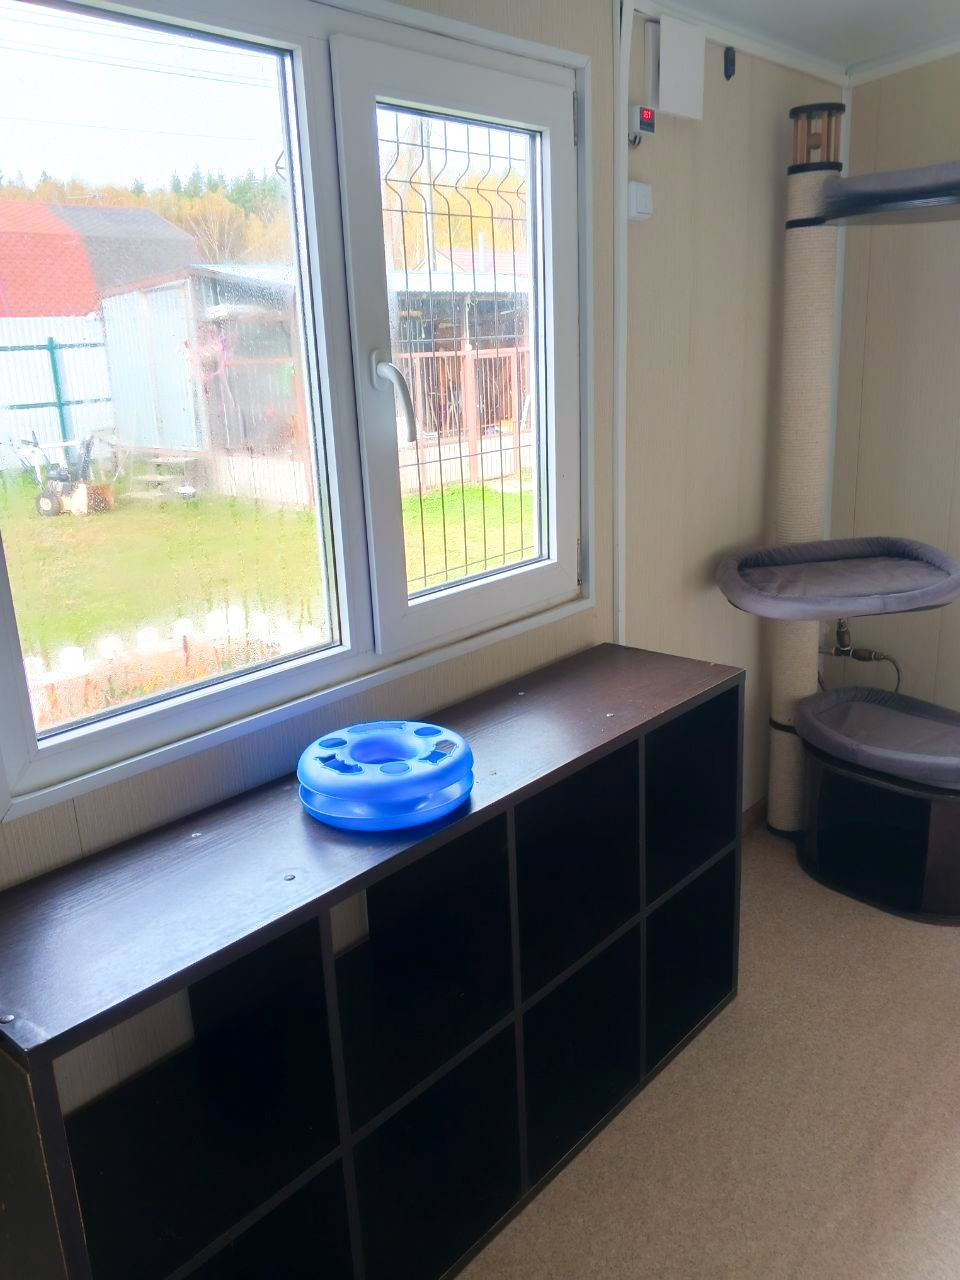
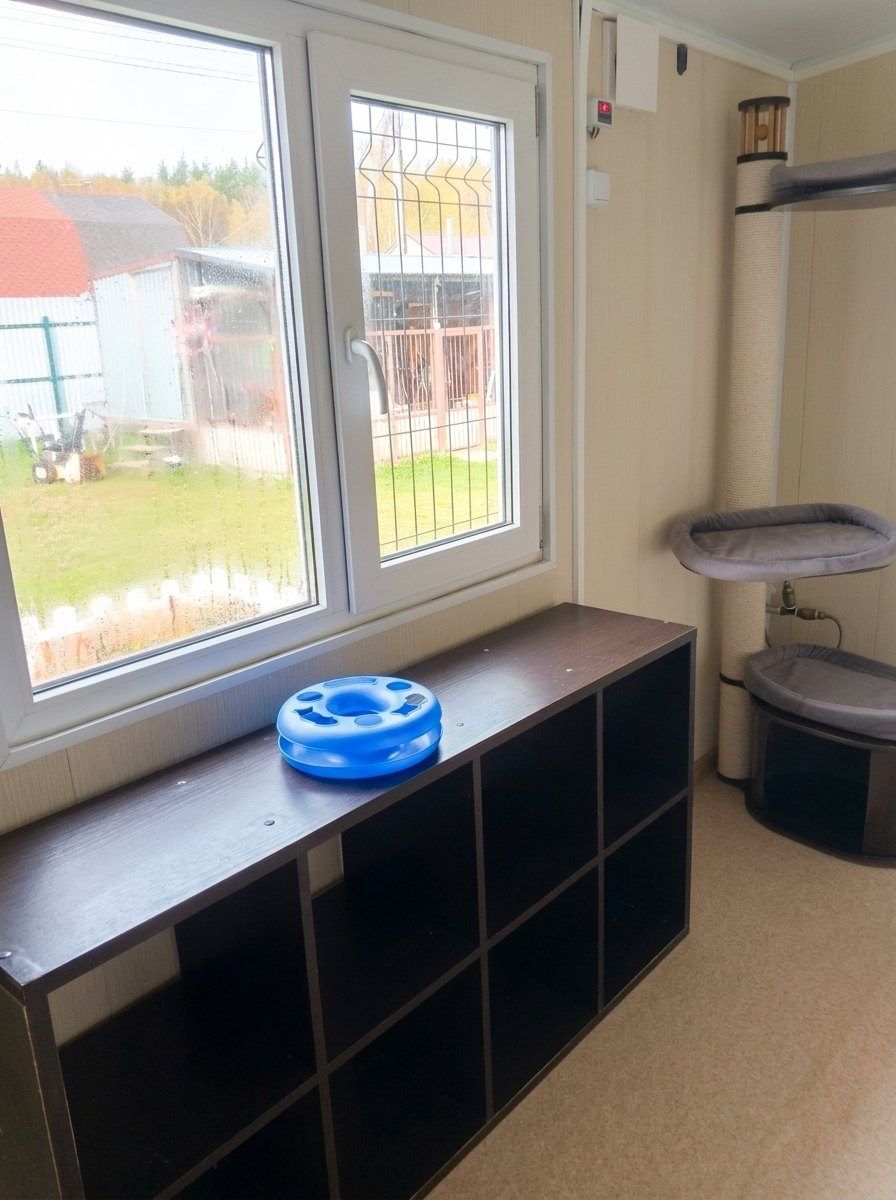
feat(rooms-cat): replace old room photos with 5 new interior photos and update slider indicators

diff --git a/index.html b/index.html
@@ -337,7 +337,7 @@
                 <button type="button" class="rooms-gallery-toggle" data-target="catGalleryAccordion" aria-expanded="false">
                   <span class="r-toggle-icon">📷</span>
                   <span class="r-toggle-text">Посмотреть фотографии номеров</span>
-                  <span class="r-toggle-badge">7 фото</span>
+                  <span class="r-toggle-badge">5 фото</span>
                   <svg class="r-toggle-chevron" width="18" height="18" viewBox="0 0 24 24" fill="none" stroke="currentColor" stroke-width="2.5" stroke-linecap="round" stroke-linejoin="round">
                     <polyline points="6 9 12 15 18 9"></polyline>
                   </svg>
@@ -360,19 +360,11 @@
                       <div class="slide">
                         <img src="images/rooms_cat/room_cat_05.jpg" alt="Номер для кошек" loading="lazy">
                       </div>
-                      <div class="slide">
-                        <img src="images/rooms_cat/room_cat_06.jpg" alt="Номер для кошек" loading="lazy">
-                      </div>
-                      <div class="slide">
-                        <img src="images/rooms_cat/room_cat_07.jpg" alt="Номер для кошек" loading="lazy">
-                      </div>
                     </div>
                     <button class="slider-arrow prev" data-slider="catSlider">&#8249;</button>
                     <button class="slider-arrow next" data-slider="catSlider">&#8250;</button>
                     <div class="slider-dots" id="catDots">
                       <span class="dot active"></span>
-                      <span class="dot"></span>
-                      <span class="dot"></span>
                       <span class="dot"></span>
                       <span class="dot"></span>
                       <span class="dot"></span>
